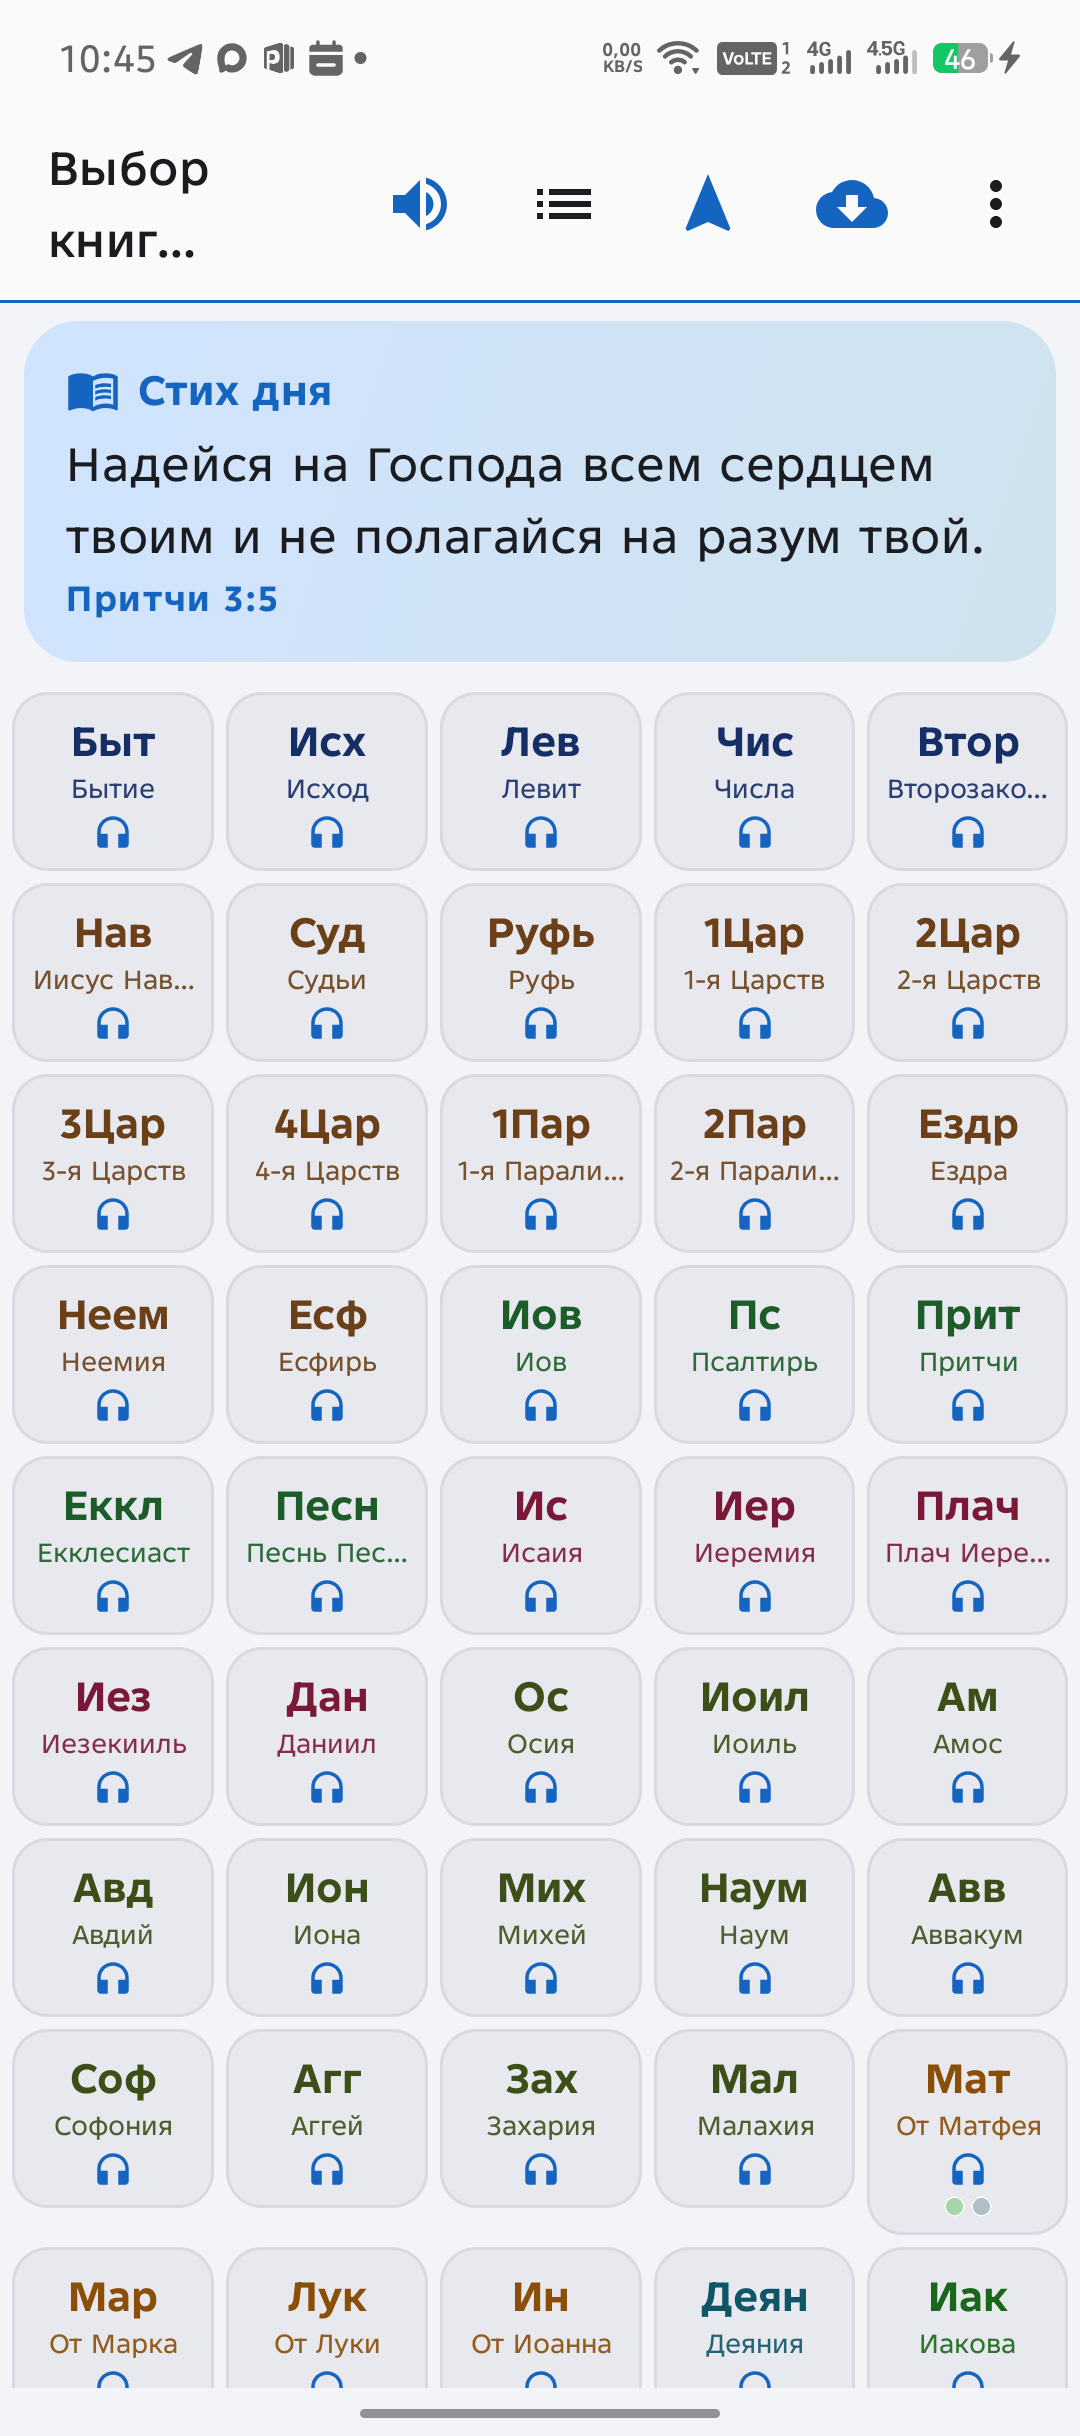
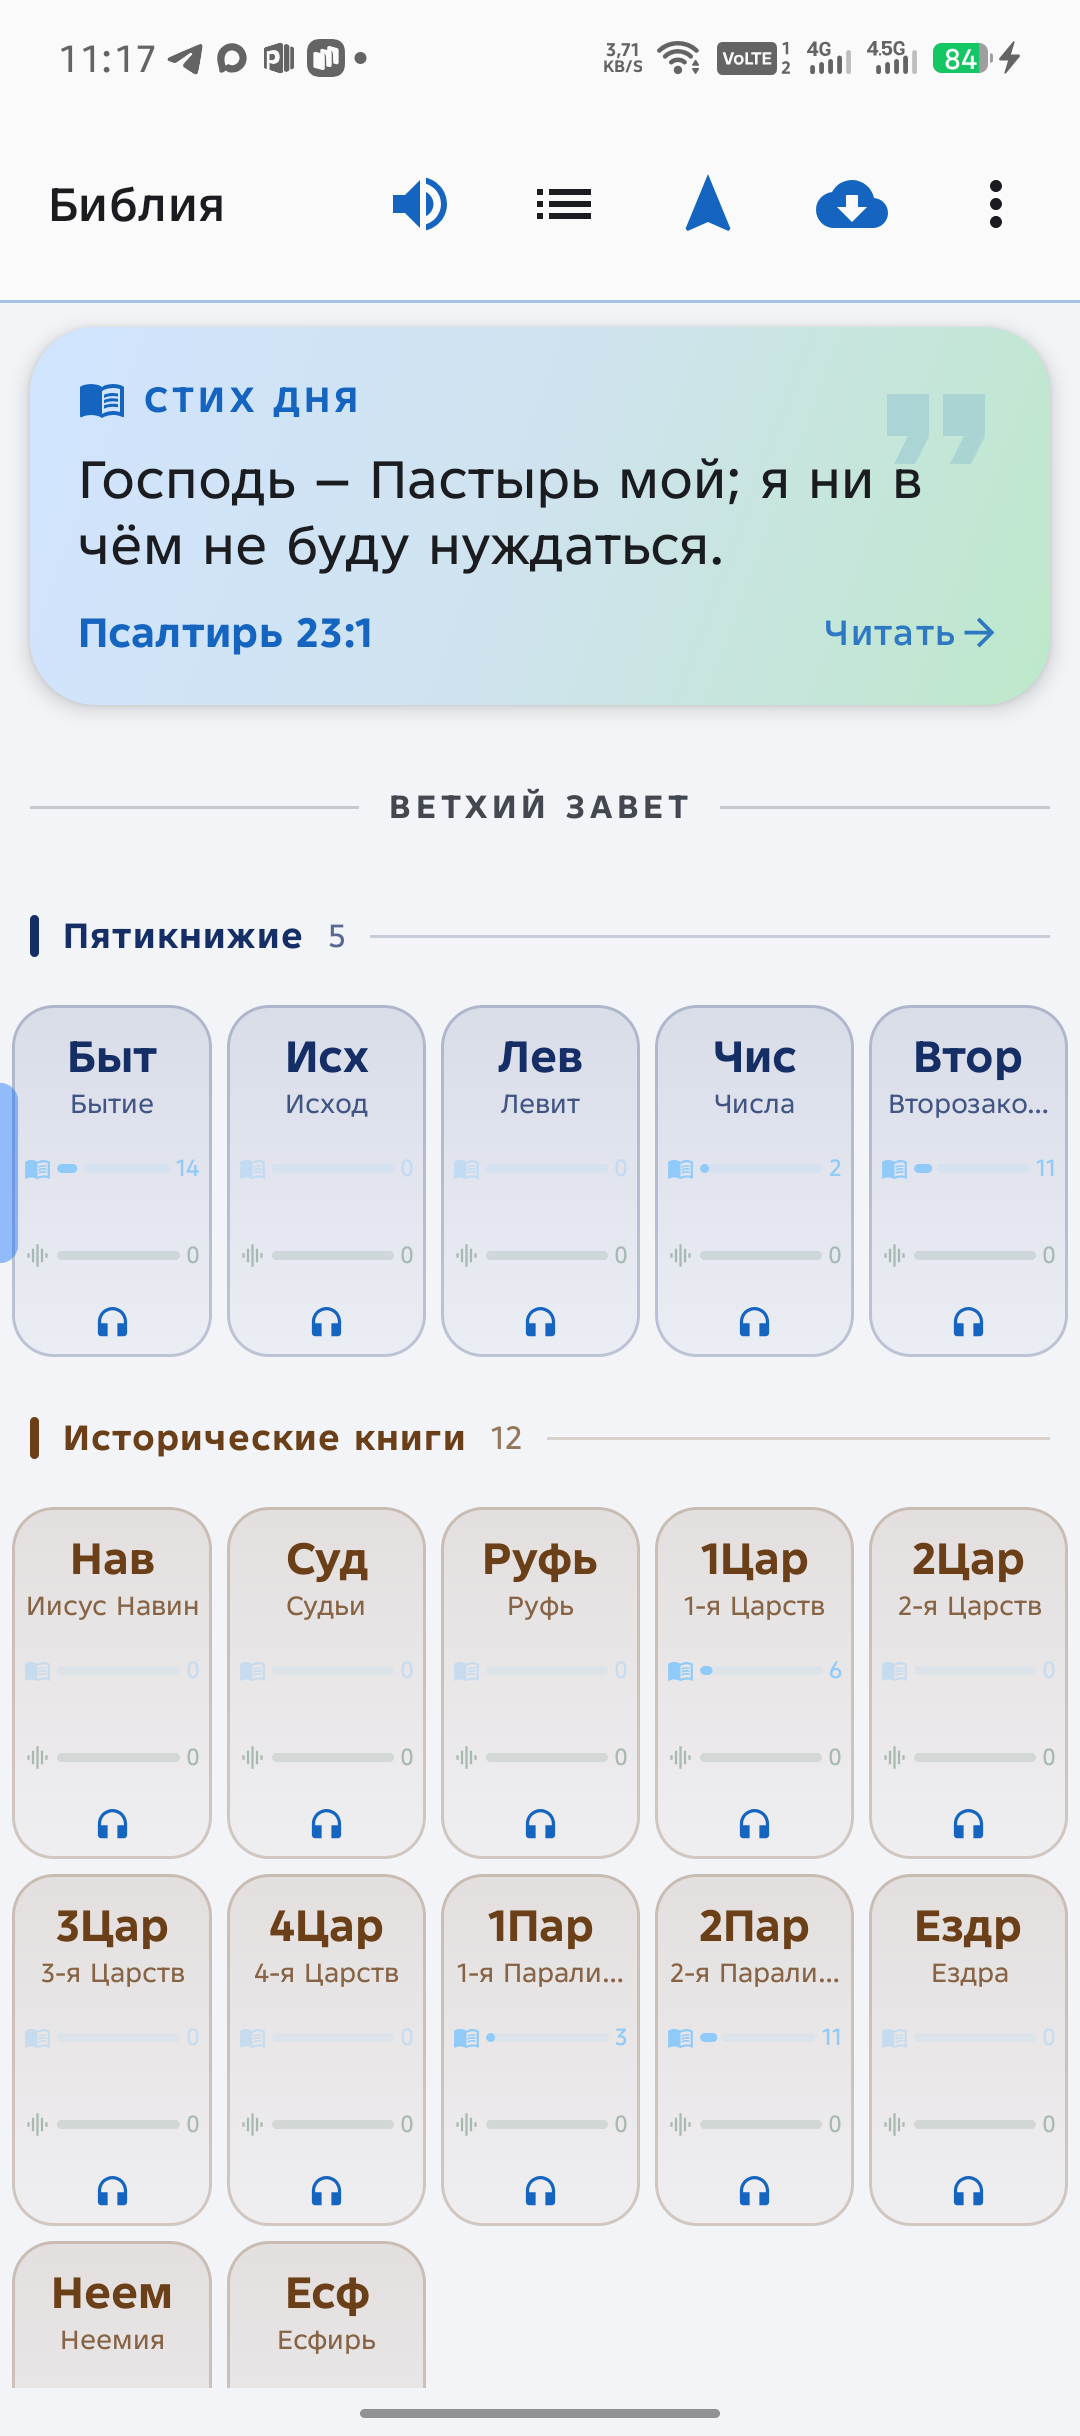
Скриншоты главного экрана, глав, стихов и прогресса чтения.
Обновлены снимки с телефона для README: прогресс книг, полосы глав, цветные метки стихов и новый раздел статистики.

diff --git a/README.md b/README.md
@@ -27,9 +27,13 @@
 
 Сетка книг с **стихом дня**, цветными метками «есть озвучка», полосками прогресса «прочитано / прослушано» и переключением сетка/список — и вы уже в тексте. У глав сверху видно, вся ли книга пройдена. У стихов цветная точка перевода: заливка — прочитан, кольцо — прослушан. В меню — полная картина по каждому переводу. Читалка — с вкладками переводов, масштабом, подсветкой слов и быстрым переходом «Быт 1:1 → …».
 
-| Книги и стих дня | Главы | Читалка |
+| Книги и стих дня | Главы | Стихи |
 |:---:|:---:|:---:|
-| ![Книги — сетка, стих дня, озвучка](docs/screenshots/01-books.png) | ![Главы Бытия — наушники у каждой](docs/screenshots/02-chapters.png) | ![Читалка — вкладки переводов, подсветка](docs/screenshots/03-reader.png) |
+| ![Книги — сетка, прогресс, разделы канона](docs/screenshots/01-books.png) | ![Главы — прочитано и прослушано](docs/screenshots/02-chapters.png) | ![Стихи — цветные метки переводов](docs/screenshots/02b-verses.png) |
+
+| Прочитано и прослушано | Статистика разделов | Читалка |
+|:---:|:---:|:---:|
+| ![Прогресс по переводам](docs/screenshots/02c-coverage.png) | ![Самые читаемые книги и цифры](docs/screenshots/02d-coverage-stats.png) | ![Читалка — вкладки переводов, подсветка](docs/screenshots/03-reader.png) |
 
 **Два перевода рядом? Три?** Пожалуйста — синхронная прокрутка, обмен панелями, свой размер шрифта в каждом окне.
 
